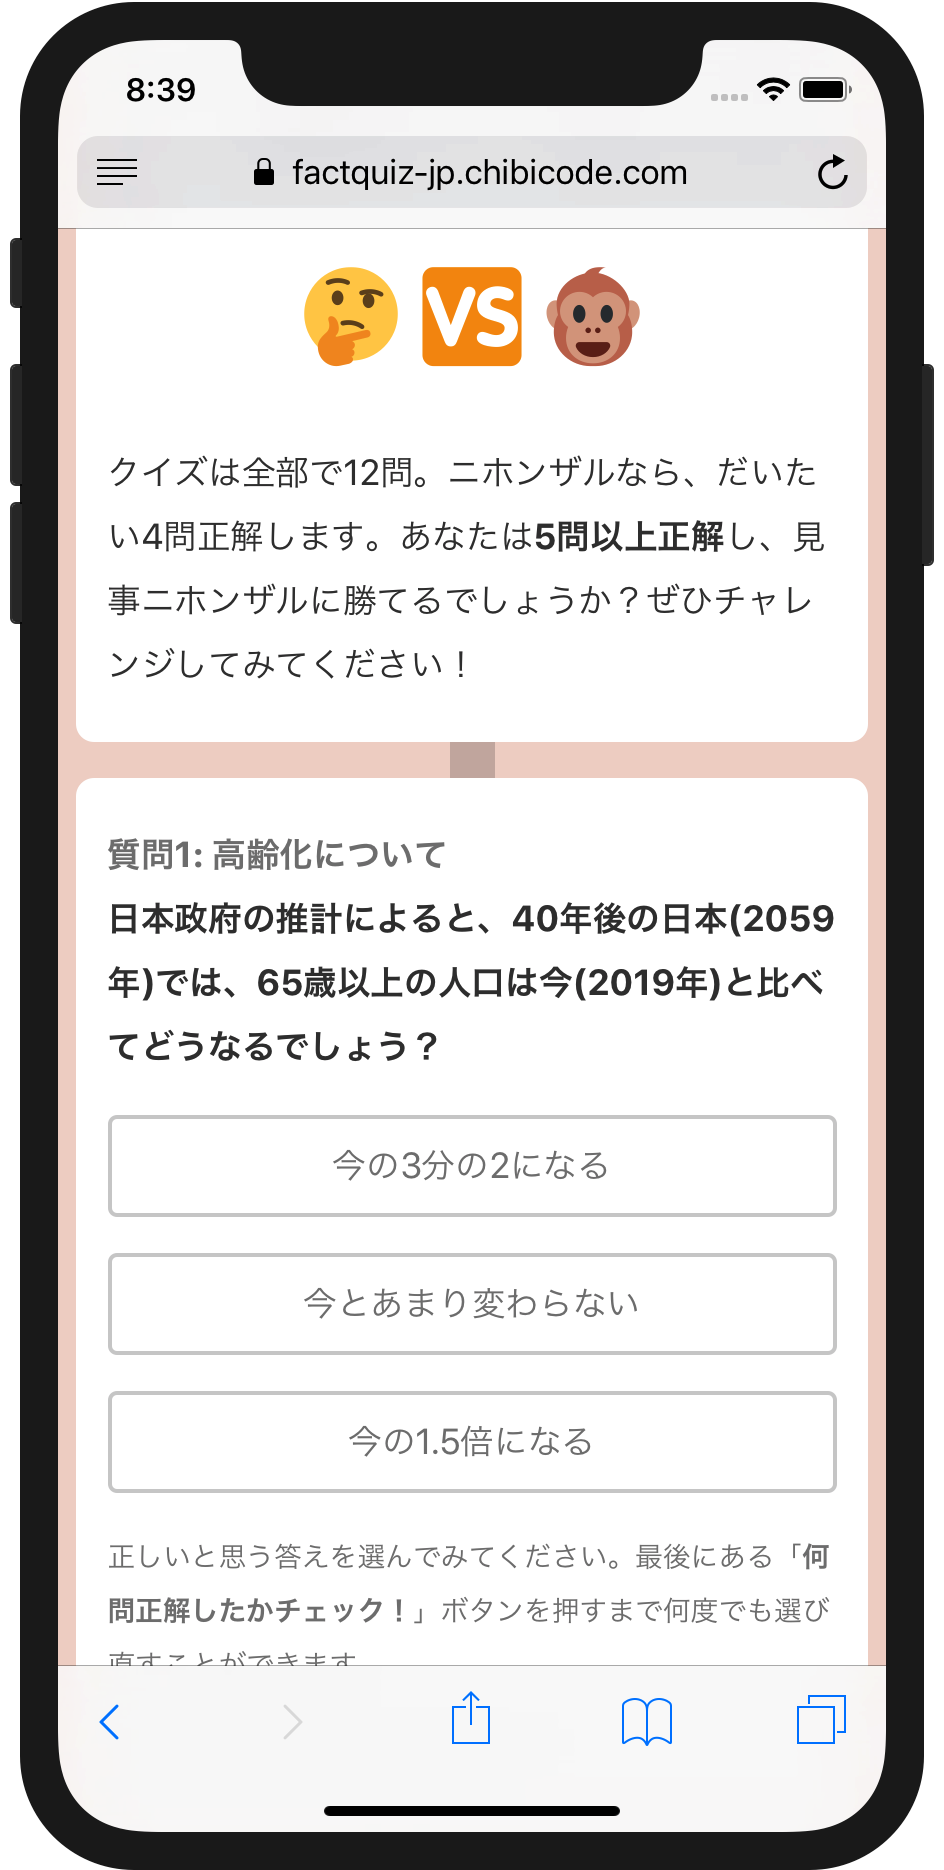
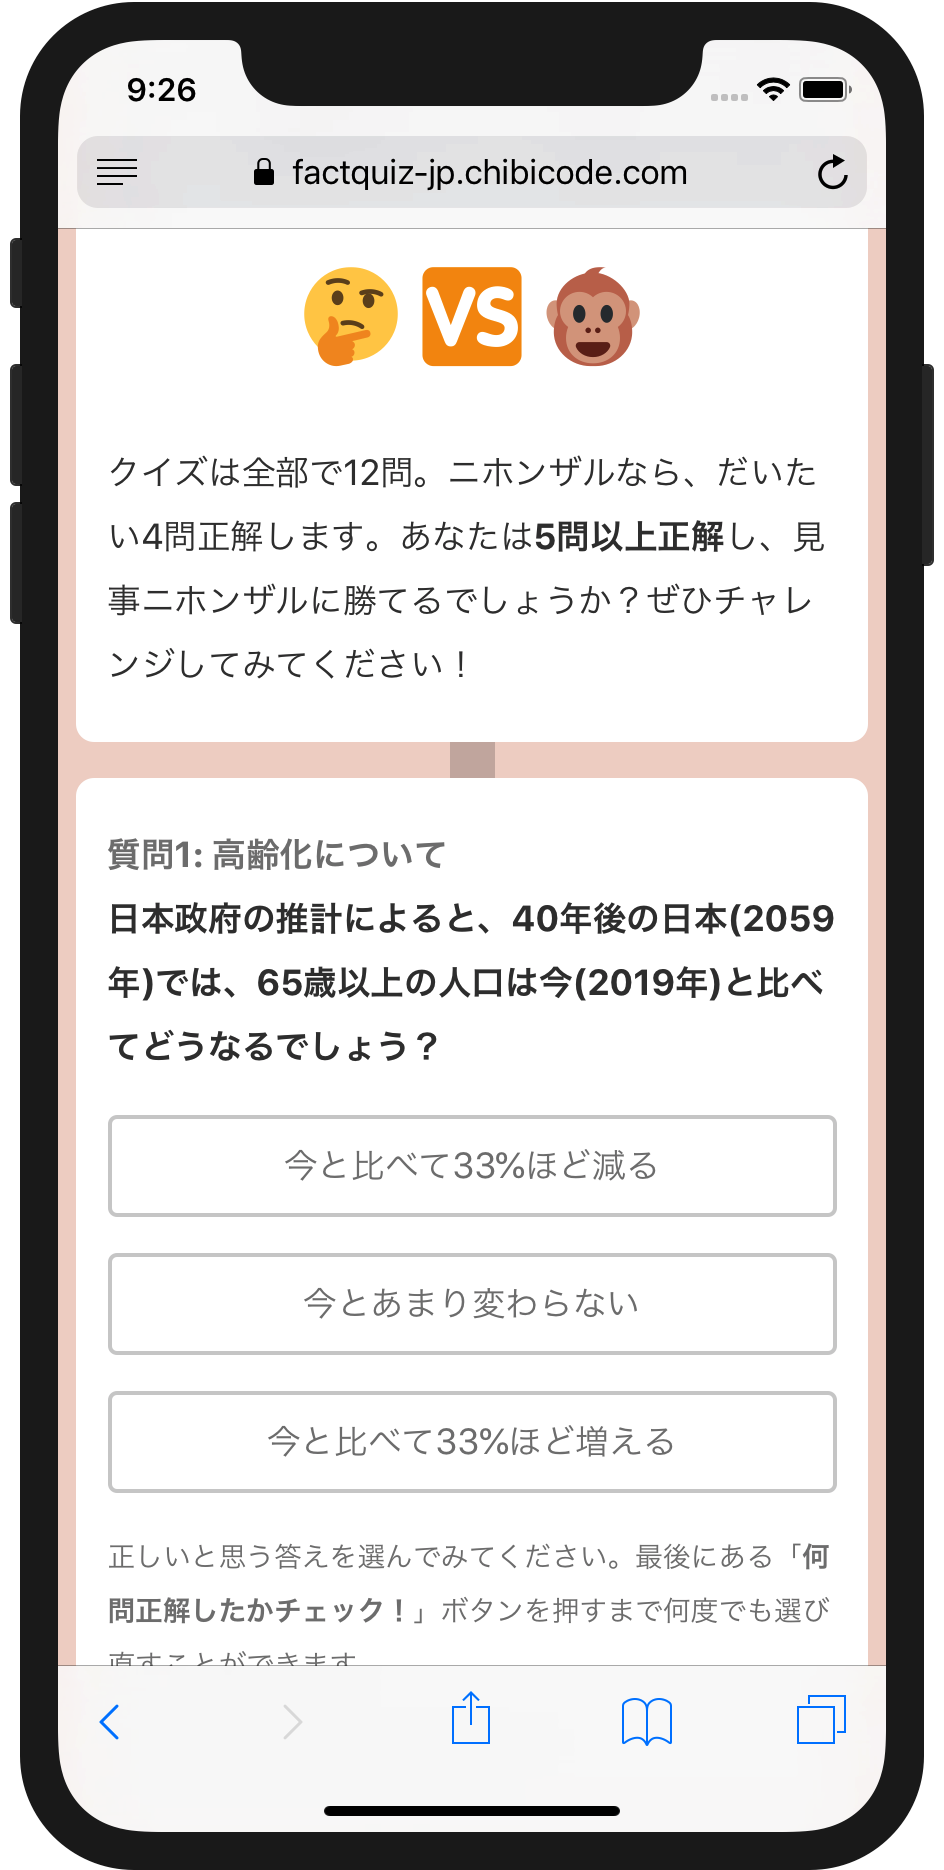
:pencil:

diff --git a/src/lib/quiz.js b/src/lib/quiz.js
@@ -8,9 +8,9 @@ export const problems = [
       '日本政府の推計によると、40年後の日本(2059年)では、65歳以上の人口は今(2019年)と比べてどうなるでしょう？',
     short: '将来の高齢者人口',
     choices: {
-      a: '今と比べて33%ほど減る',
-      b: '今とあまり変わらない',
-      c: '今と比べて33%ほど増える'
+      a: '今とあまり変わらない',
+      b: '今と比べて20%ほど増える',
+      c: '今と比べて40%ほど増える'
     },
     explanation: (
       <>
@@ -20,15 +20,15 @@ export const problems = [
         </ExternalLink>
         」によると、2019年の65歳以上人口は
         <strong>約3592万人</strong>で、2059年は<strong>約3571万人</strong>
-        。つまり今とほとんど変わらない。ちなみにこれは死亡中位・出生中位という最も現実的なシナリオでの推計。
+        。つまり今とほとんど変わらない。ピークの2042年でも今より10%多いくらいだ。ちなみにこれは死亡中位・出生中位という最も現実的なシナリオでの推計。
       </>
     ),
     trust: (
       <>
-        人口予測はかなり正確だが、この問題はさらに予測しやすい。2059年の65歳以上人口は、2019年の25歳以上人口が基になるからだ。死亡数や転入数・転出数(移民など)も影響するが、1000万人以上の誤差が出ることはないだろう。
+        人口予測はかなり正確だが、この問題はさらに予測しやすい。2059年の65歳以上人口は、2019年の25歳以上人口とその死亡率が基になるからだ。転入数・転出数(移民など)も影響するが、それを踏まえても700万人近い誤差がでないと「今と比べて20%ほど増える」にならない。
       </>
     ),
-    answer: 'b'
+    answer: 'a'
   },
   {
     type: '交通事故',
@@ -93,8 +93,10 @@ export const problems = [
   },
   {
     type: '地方行政',
+    subtext:
+      'ちなみに「地方公務員」には、福祉、福祉を除く一般行政、教育、警察、消防、公営企業会計などの部門が含まれます。',
     text:
-      '2017年の日本において、15~64歳人口の約何パーセントが「地方公務員」として働いているでしょう？(教育・警察・消防・一般行政・公営企業会計など)',
+      '2017年の日本において、15~64歳人口の約何パーセントが「地方公務員」として働いているでしょう？',
     short: '地方公務員の割合',
     choices: {
       a: '4%',
@@ -107,7 +109,7 @@ export const problems = [
           総務省による執筆時最新のデータによれば
         </ExternalLink>
         、2017年の地方公務員の総職員数は<strong>約274万人</strong>
-        。これには一般行政部門・教育部門・警察部門・消防部門・公営企業等会計部門が含まれている。一方、15〜64歳人口は同じく
+        。これには福祉部門、福祉を除く一般行政部門、教育部門、警察部門、消防部門、公営企業等会計部門が含まれている。一方、15〜64歳人口は同じく
         <ExternalLink href="https://www.stat.go.jp/data/jinsui/2017np/index.html">
           総務省によると
         </ExternalLink>

diff --git a/src/components/quiz-problems.js b/src/components/quiz-problems.js
@@ -18,7 +18,7 @@ const QuizProblems = ({setAnswer, selectedAnswers, submit}) => (
       <Intro />
     </Card>
     {problems.map(
-      ({text, choices, type}, index) =>
+      ({text, choices, type, subtext}, index) =>
         selectedAnswers.length >= index && (
           <Card key={text} isLast={selectedAnswers.length === index}>
             <h3
@@ -71,6 +71,11 @@ const QuizProblems = ({setAnswer, selectedAnswers, submit}) => (
                   </ExternalLink>
                   。
                 </p>
+              </>
+            )}
+            {subtext && (
+              <>
+                <p css={quietCss}>{subtext}</p>
               </>
             )}
           </Card>
